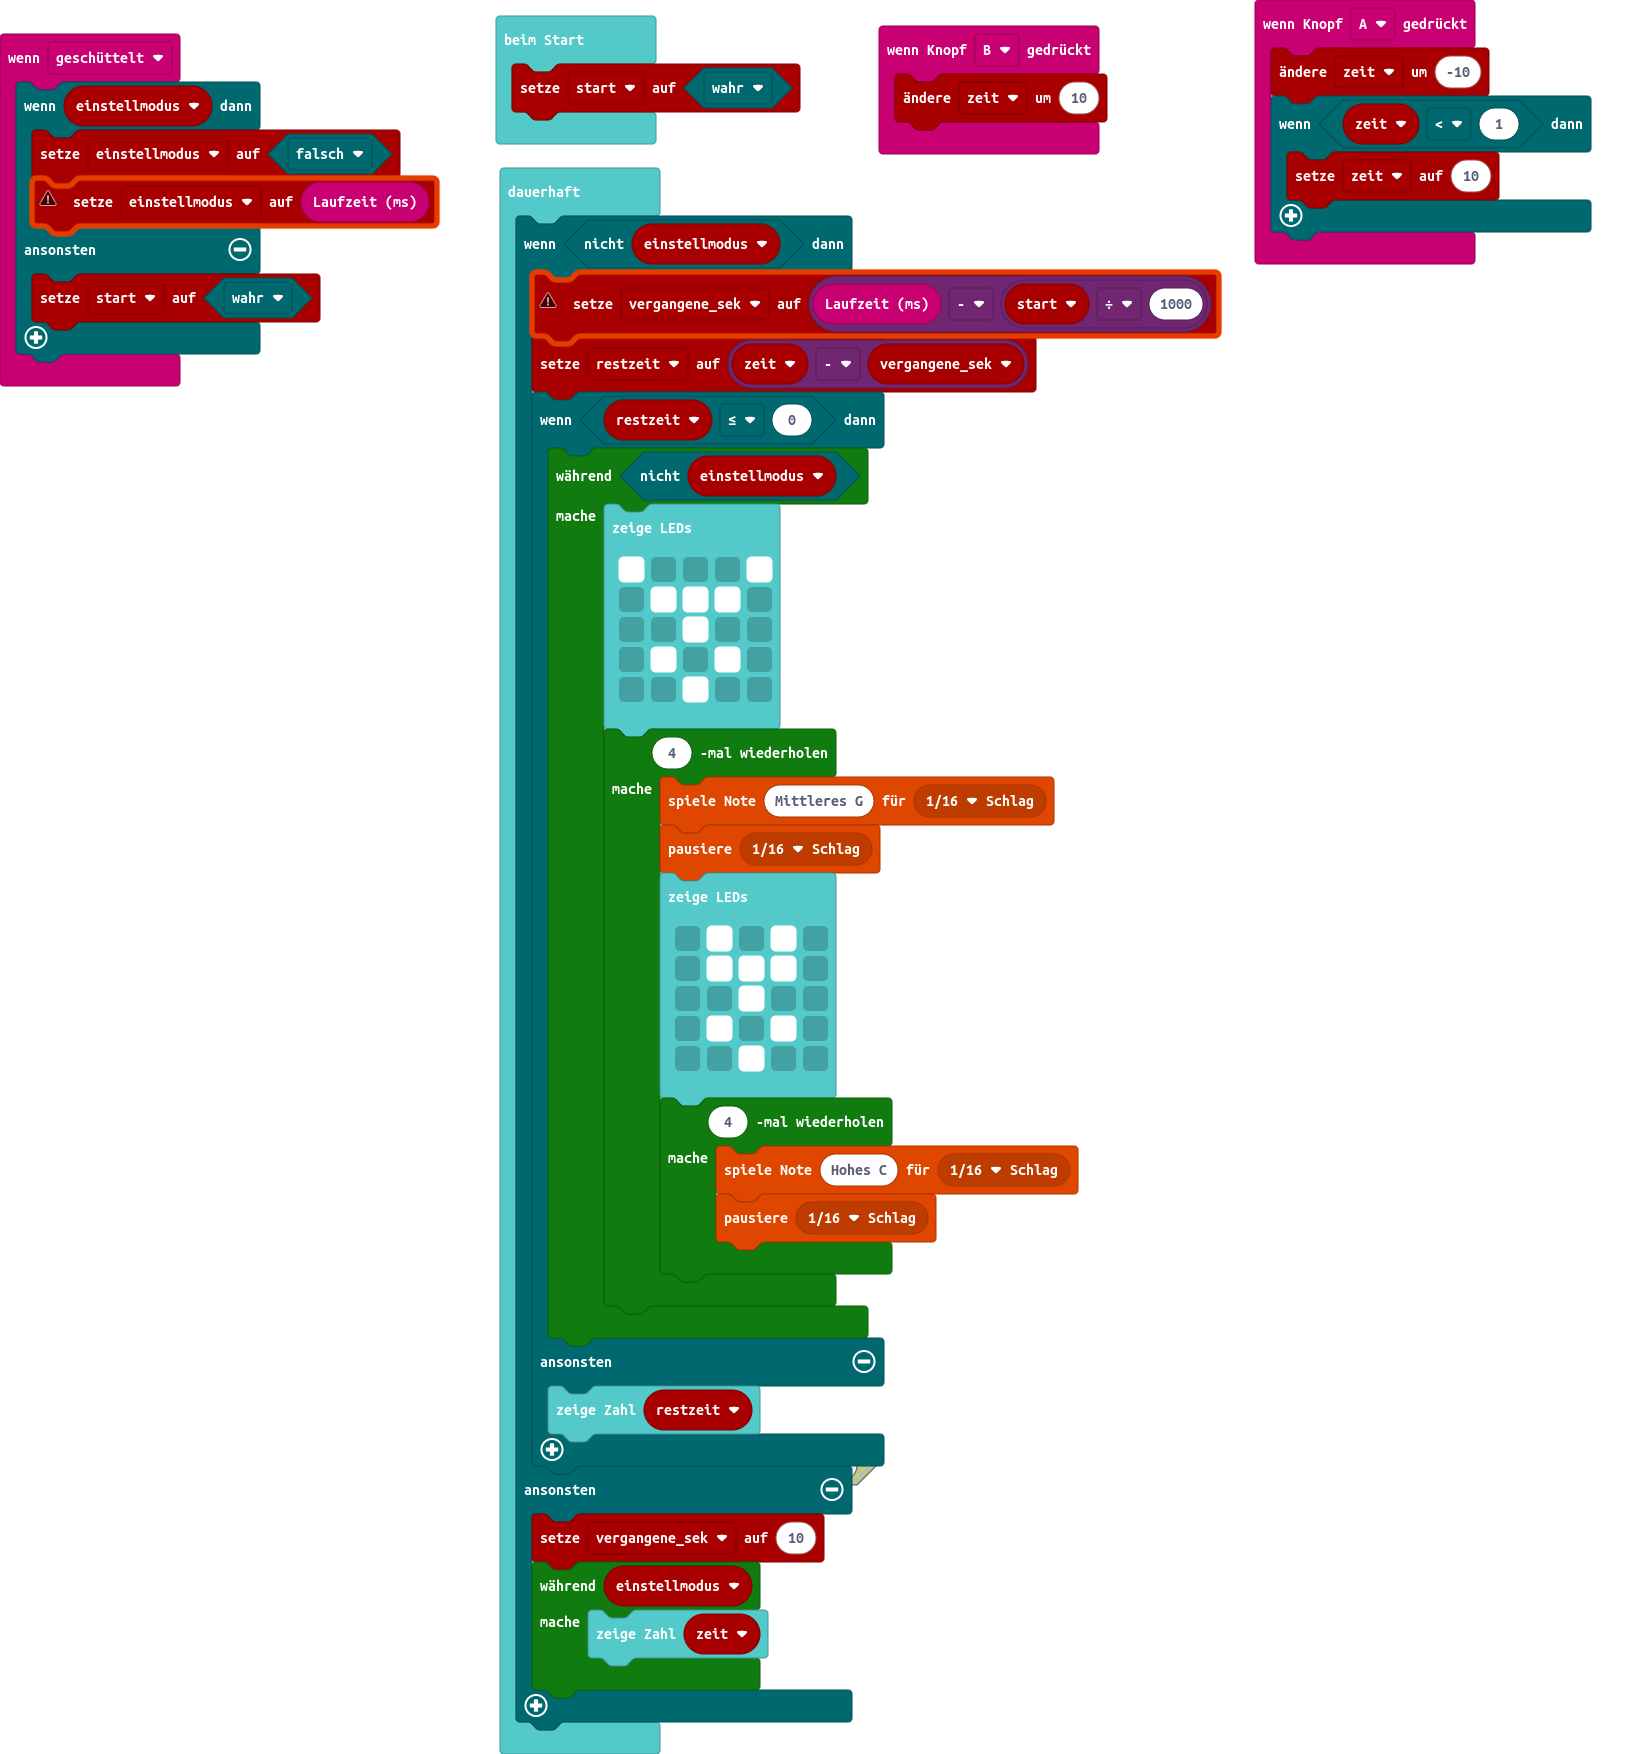
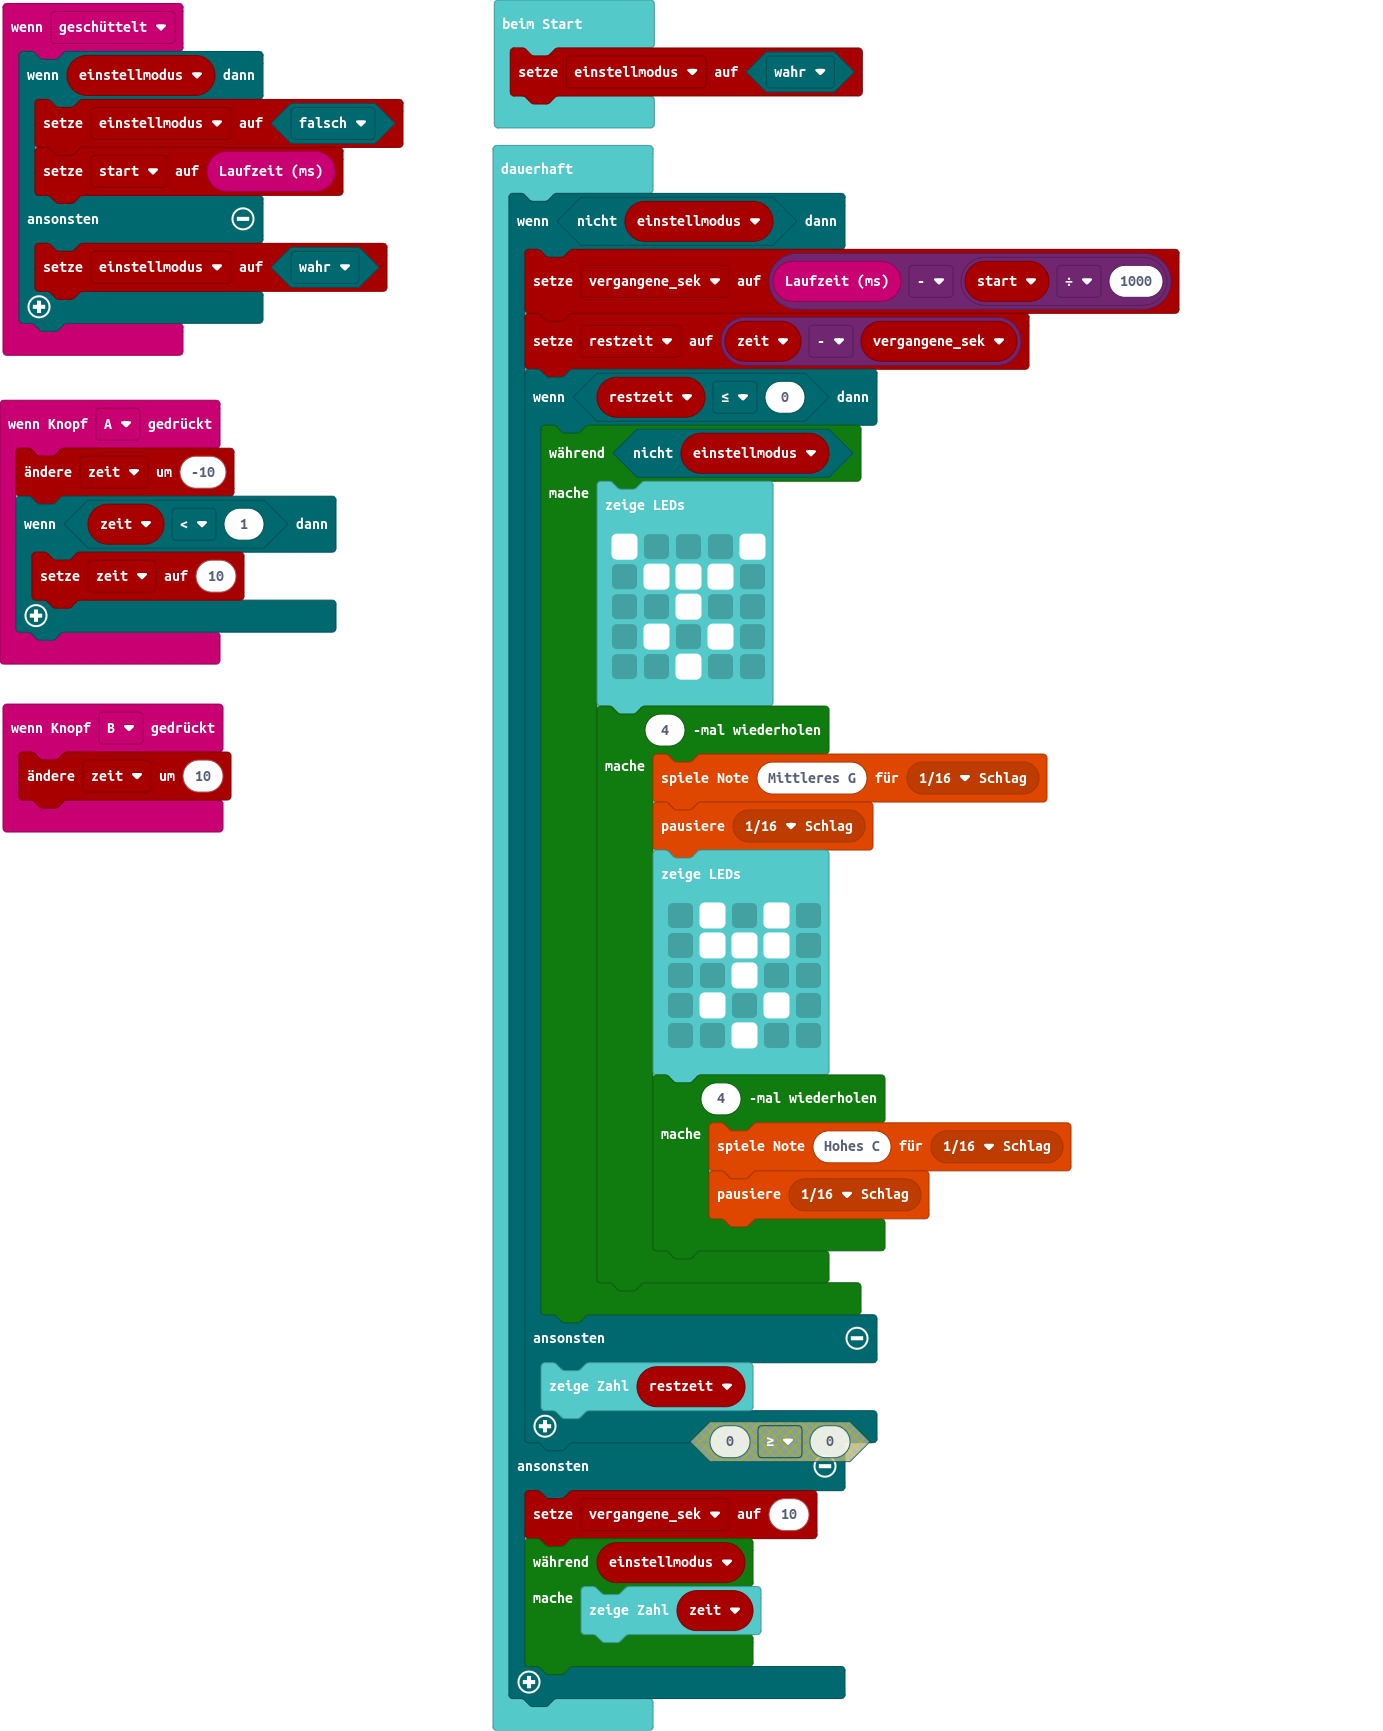
Aktualisiere main.blocks, main.ts

diff --git a/main.ts b/main.ts
@@ -7,9 +7,9 @@ input.onButtonPressed(Button.A, function () {
 input.onGesture(Gesture.Shake, function () {
     if (einstellmodus) {
         einstellmodus = false
-        einstellmodus = input.runningTime()
+        start = input.runningTime()
     } else {
-        start = true
+        einstellmodus = true
     }
 })
 input.onButtonPressed(Button.B, function () {
@@ -17,10 +17,10 @@ input.onButtonPressed(Button.B, function () {
 })
 let restzeit = 0
 let vergangene_sek = 0
-let einstellmodus = false
+let start = 0
 let zeit = 0
-let start = false
-start = true
+let einstellmodus = false
+einstellmodus = true
 basic.forever(function () {
     if (!(einstellmodus)) {
         vergangene_sek = input.runningTime() - start / 1000
